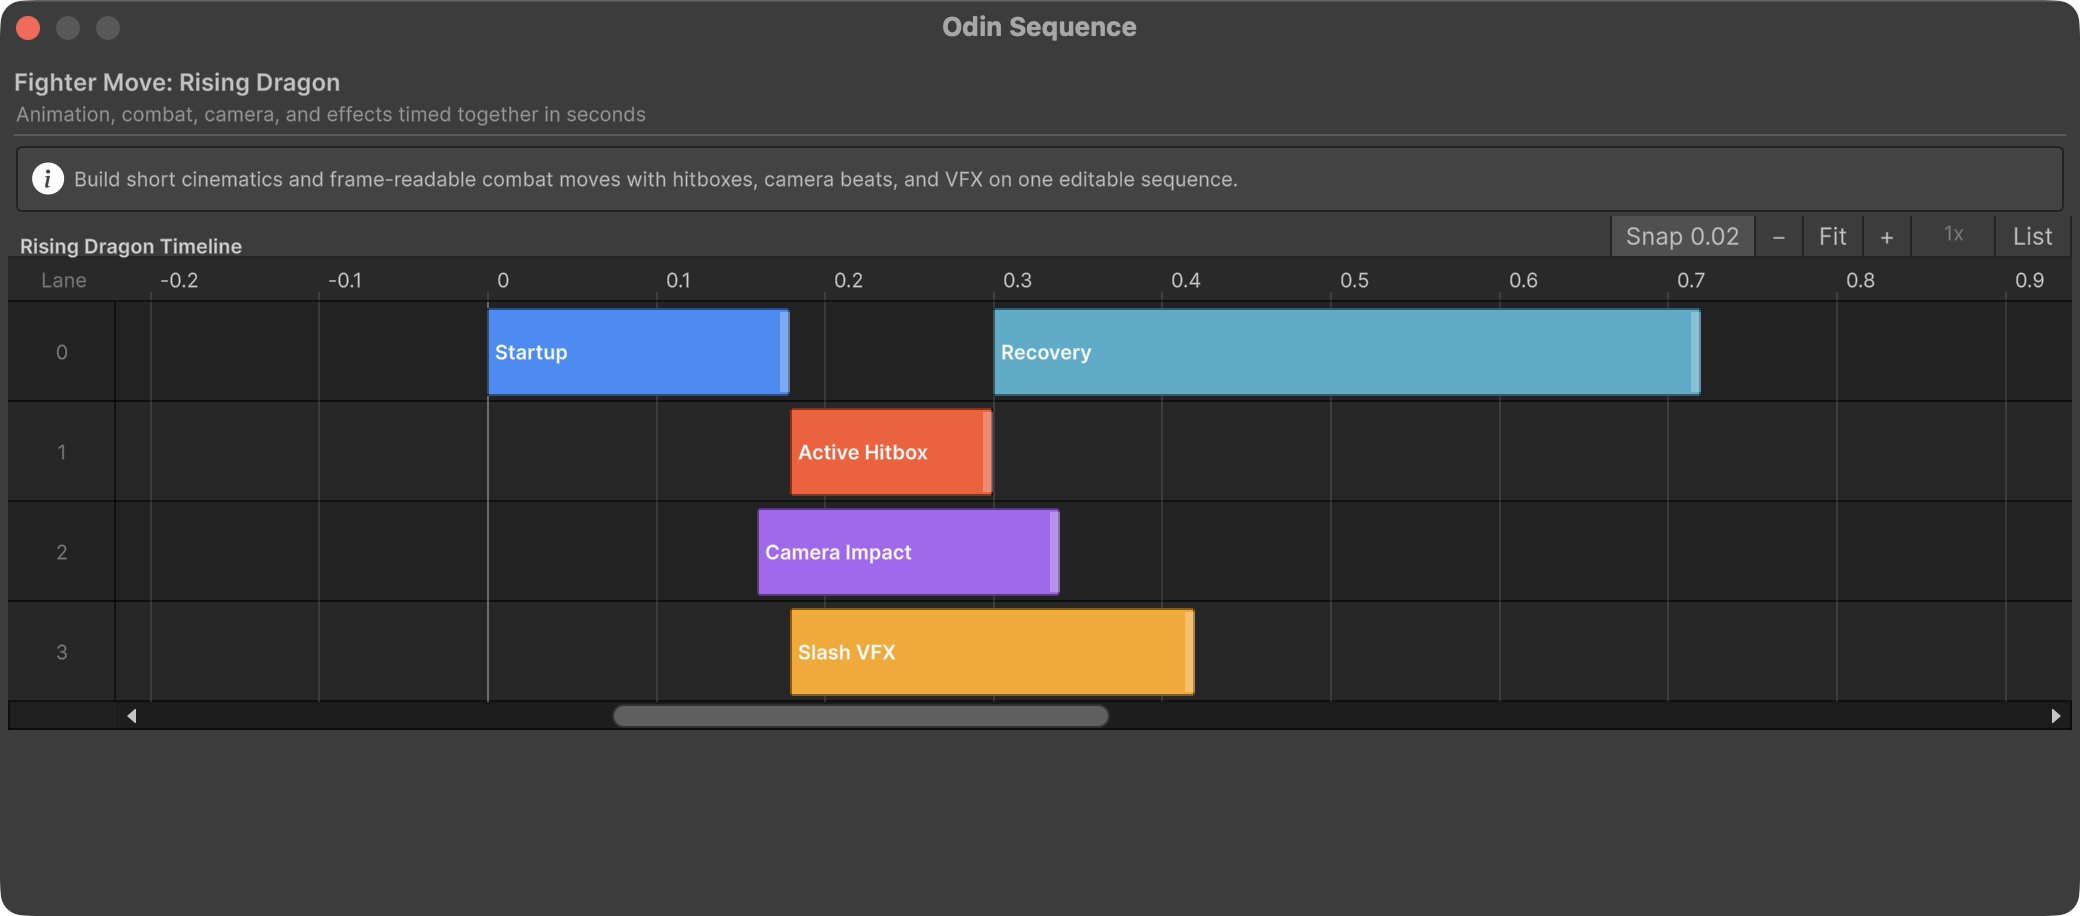
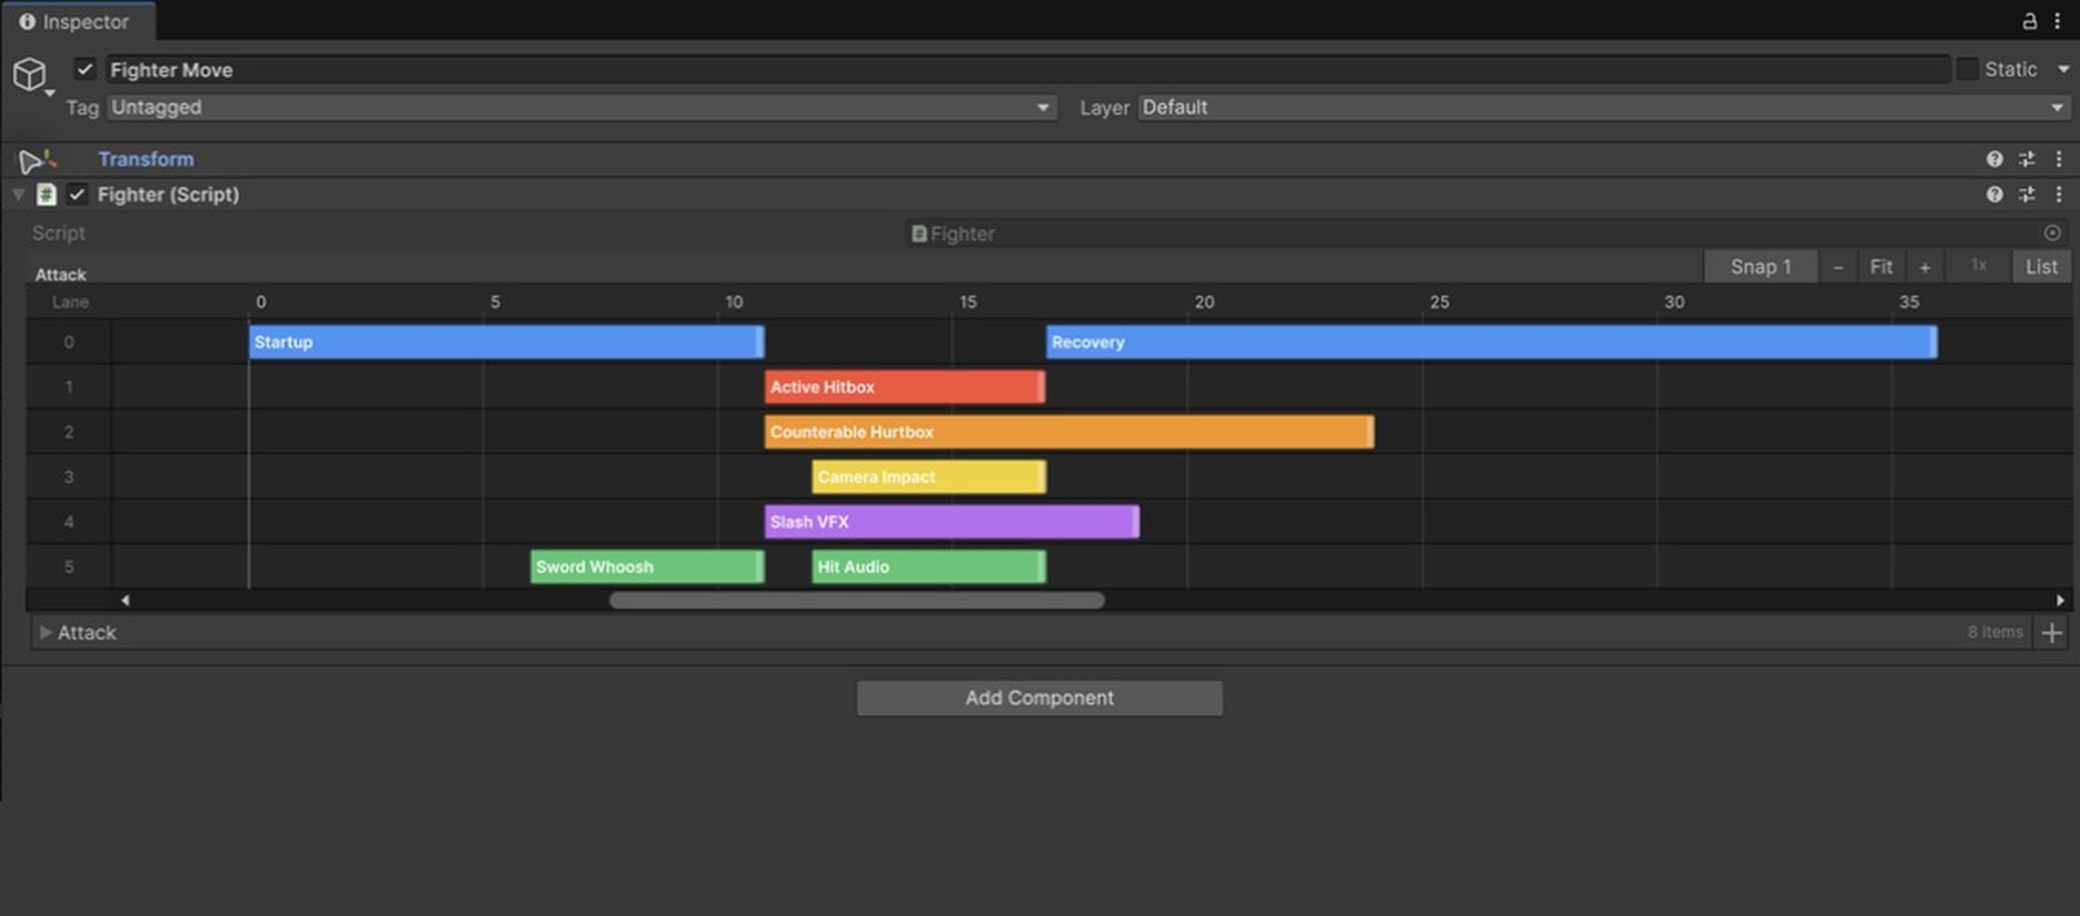
Use frame units in the Fighter sample

diff --git a/Samples~/Basic/Fighter.cs b/Samples~/Basic/Fighter.cs
@@ -12,25 +12,25 @@ namespace MartinCalander.OdinSequence.Samples
             LaneMember = nameof(FighterTimelineEvent.Track),
             LabelMember = nameof(FighterTimelineEvent.Label),
             ColorMember = nameof(FighterTimelineEvent.Color),
-            SnapInterval = 1d / 60d)]
+            SnapInterval = 1d)]
         [SerializeField]
         private List<FighterTimelineEvent> attack = new List<FighterTimelineEvent>
         {
-            new FighterTimelineEvent("Startup", 0f, 0.18f, FighterTrack.Animation, new Color(0.24f, 0.58f, 0.95f)),
-            new FighterTimelineEvent("Sword Whoosh", 0.10f, 0.08f, FighterTrack.Audio, new Color(0.32f, 0.78f, 0.48f)),
-            new FighterTimelineEvent("Active Hitbox", 0.18f, 0.10f, FighterTrack.Hitbox, new Color(0.96f, 0.30f, 0.24f)),
-            new FighterTimelineEvent("Counterable Hurtbox", 0.18f, 0.22f, FighterTrack.Hurtbox, new Color(0.95f, 0.58f, 0.20f)),
-            new FighterTimelineEvent("Slash VFX", 0.18f, 0.14f, FighterTrack.Vfx, new Color(0.72f, 0.42f, 0.92f)),
-            new FighterTimelineEvent("Camera Impact", 0.20f, 0.08f, FighterTrack.Camera, new Color(0.95f, 0.82f, 0.28f)),
-            new FighterTimelineEvent("Hit Audio", 0.20f, 0.08f, FighterTrack.Audio, new Color(0.32f, 0.78f, 0.48f)),
-            new FighterTimelineEvent("Recovery", 0.28f, 0.32f, FighterTrack.Animation, new Color(0.24f, 0.58f, 0.95f))
+            new FighterTimelineEvent("Startup", 0, 11, FighterTrack.Animation, new Color(0.24f, 0.58f, 0.95f)),
+            new FighterTimelineEvent("Sword Whoosh", 6, 5, FighterTrack.Audio, new Color(0.32f, 0.78f, 0.48f)),
+            new FighterTimelineEvent("Active Hitbox", 11, 6, FighterTrack.Hitbox, new Color(0.96f, 0.30f, 0.24f)),
+            new FighterTimelineEvent("Counterable Hurtbox", 11, 13, FighterTrack.Hurtbox, new Color(0.95f, 0.58f, 0.20f)),
+            new FighterTimelineEvent("Slash VFX", 11, 8, FighterTrack.Vfx, new Color(0.72f, 0.42f, 0.92f)),
+            new FighterTimelineEvent("Camera Impact", 12, 5, FighterTrack.Camera, new Color(0.95f, 0.82f, 0.28f)),
+            new FighterTimelineEvent("Hit Audio", 12, 5, FighterTrack.Audio, new Color(0.32f, 0.78f, 0.48f)),
+            new FighterTimelineEvent("Recovery", 17, 19, FighterTrack.Animation, new Color(0.24f, 0.58f, 0.95f))
         };
     }
 
     [Serializable]
     public sealed class FighterTimelineEvent
     {
-        public FighterTimelineEvent(string label, float start, float duration, int track, Color color)
+        public FighterTimelineEvent(string label, int start, int duration, int track, Color color)
         {
             Label = label;
             Start = start;
@@ -40,8 +40,8 @@ namespace MartinCalander.OdinSequence.Samples
         }
 
         public string Label;
-        public float Start;
-        public float Duration;
+        public int Start;
+        public int Duration;
         public int Track;
         public Color Color = Color.white;
     }

diff --git a/README.md b/README.md
@@ -53,23 +53,23 @@ public sealed class Fighter : MonoBehaviour
         LaneMember = nameof(FighterTimelineEvent.Track),
         LabelMember = nameof(FighterTimelineEvent.Label),
         ColorMember = nameof(FighterTimelineEvent.Color),
-        SnapInterval = 1d / 60d)]
+        SnapInterval = 1d)]
     public List<FighterTimelineEvent> Attack = new List<FighterTimelineEvent>
     {
-        new FighterTimelineEvent("Startup", 0f, 0.18f, FighterTrack.Animation, Color.cyan),
-        new FighterTimelineEvent("Active Hitbox", 0.18f, 0.10f, FighterTrack.Hitbox, Color.red),
-        new FighterTimelineEvent("Counterable Hurtbox", 0.18f, 0.22f, FighterTrack.Hurtbox, Color.blue),
-        new FighterTimelineEvent("Camera Impact", 0.20f, 0.08f, FighterTrack.Camera, Color.yellow),
-        new FighterTimelineEvent("Slash VFX", 0.18f, 0.14f, FighterTrack.Vfx, Color.magenta),
-        new FighterTimelineEvent("Hit Audio", 0.20f, 0.08f, FighterTrack.Audio, Color.green),
-        new FighterTimelineEvent("Recovery", 0.28f, 0.32f, FighterTrack.Animation, Color.cyan)
+        new FighterTimelineEvent("Startup", 0, 11, FighterTrack.Animation, Color.cyan),
+        new FighterTimelineEvent("Active Hitbox", 11, 6, FighterTrack.Hitbox, Color.red),
+        new FighterTimelineEvent("Counterable Hurtbox", 11, 13, FighterTrack.Hurtbox, Color.blue),
+        new FighterTimelineEvent("Camera Impact", 12, 5, FighterTrack.Camera, Color.yellow),
+        new FighterTimelineEvent("Slash VFX", 11, 8, FighterTrack.Vfx, Color.magenta),
+        new FighterTimelineEvent("Hit Audio", 12, 5, FighterTrack.Audio, Color.green),
+        new FighterTimelineEvent("Recovery", 17, 19, FighterTrack.Animation, Color.cyan)
     };
 }
 
 [Serializable]
 public sealed class FighterTimelineEvent
 {
-    public FighterTimelineEvent(string label, float start, float duration, int track, Color color)
+    public FighterTimelineEvent(string label, int start, int duration, int track, Color color)
     {
         Label = label;
         Start = start;
@@ -79,8 +79,8 @@ public sealed class FighterTimelineEvent
     }
 
     public string Label;
-    public float Start;
-    public float Duration;
+    public int Start;
+    public int Duration;
     public int Track;
     public Color Color = Color.white;
 }
@@ -96,6 +96,7 @@ public static class FighterTrack
 }
 ```
 
+This example stores timing in frames, so every edit snaps to one whole frame.
 The start and duration paths are required. Lane, label, and color paths are
 optional. Paths are relative to each list element and may use dots, such as
 `Timing.Start`.

diff --git a/Samples~/Basic/README.md b/Samples~/Basic/README.md
@@ -3,7 +3,7 @@
 Add `Fighter` to a GameObject and open it in Odin Inspector. The sample lays out
 a fighting-game attack across animation, hitbox, hurtbox, camera, VFX, and audio
 lanes. Its records cover startup, the active hitbox and counterable hurtbox
-window, impact feedback, and recovery with 1/60-second snapping.
+window, impact feedback, and recovery with whole-frame snapping.
 
 Odin Sequence edits these records but does not play them. Connect the list to
 your project's combat, animation, camera, VFX, and audio runtime systems.
@@ -11,8 +11,8 @@ The sample assembly is compiled only while `ODIN_INSPECTOR` is active.
 
 Try these interactions:
 
-- Drag the middle of a block to change its start time.
-- Drag the right edge to resize it.
+- Drag the middle of a block to change its start frame.
+- Drag the right edge to change its frame count.
 - Hold Control or Command while dragging to bypass snapping.
 - Use the mouse wheel over the strip to zoom.
-- Adjust startup, active, and recovery durations to tune the move's feel.
+- Adjust startup, active, and recovery frame counts to tune the move's feel.

diff --git a/CHANGELOG.md b/CHANGELOG.md
@@ -6,6 +6,7 @@ All notable changes to this package are documented here.
 
 ### Changed
 
+- Switched the Fighter sample to integer frame timing with one-frame snapping.
 - Gated the runtime, Editor, test, and sample assemblies with `ODIN_INSPECTOR` so the package contributes no compiled assemblies when Odin is not installed.
 - Replaced the Basic Sequence sample with a Fighter Move Sequence covering startup, hitbox and hurtbox windows, recovery, camera, VFX, and audio timing.
 - Expanded the documentation with short cinematic, fighting-game, and combat ability use cases and clarified that projects provide runtime playback.

diff --git a/Documentation~/getting-started.md b/Documentation~/getting-started.md
@@ -38,9 +38,12 @@ Lane, label, and color are optional:
     LaneMember = nameof(FighterTimelineEvent.Track),
     LabelMember = nameof(FighterTimelineEvent.Label),
     ColorMember = nameof(FighterTimelineEvent.Color),
-    SnapInterval = 1d / 60d)]
+    SnapInterval = 1d)]
 public List<FighterTimelineEvent> Attack;
 ```
+
+The Fighter sample stores start and duration as integer frame numbers and snaps
+each edit to one whole frame.
 
 Open the component in Odin Inspector. The strip appears above the normal list.
 If configuration is incomplete, the Inspector reports the issue and leaves the
